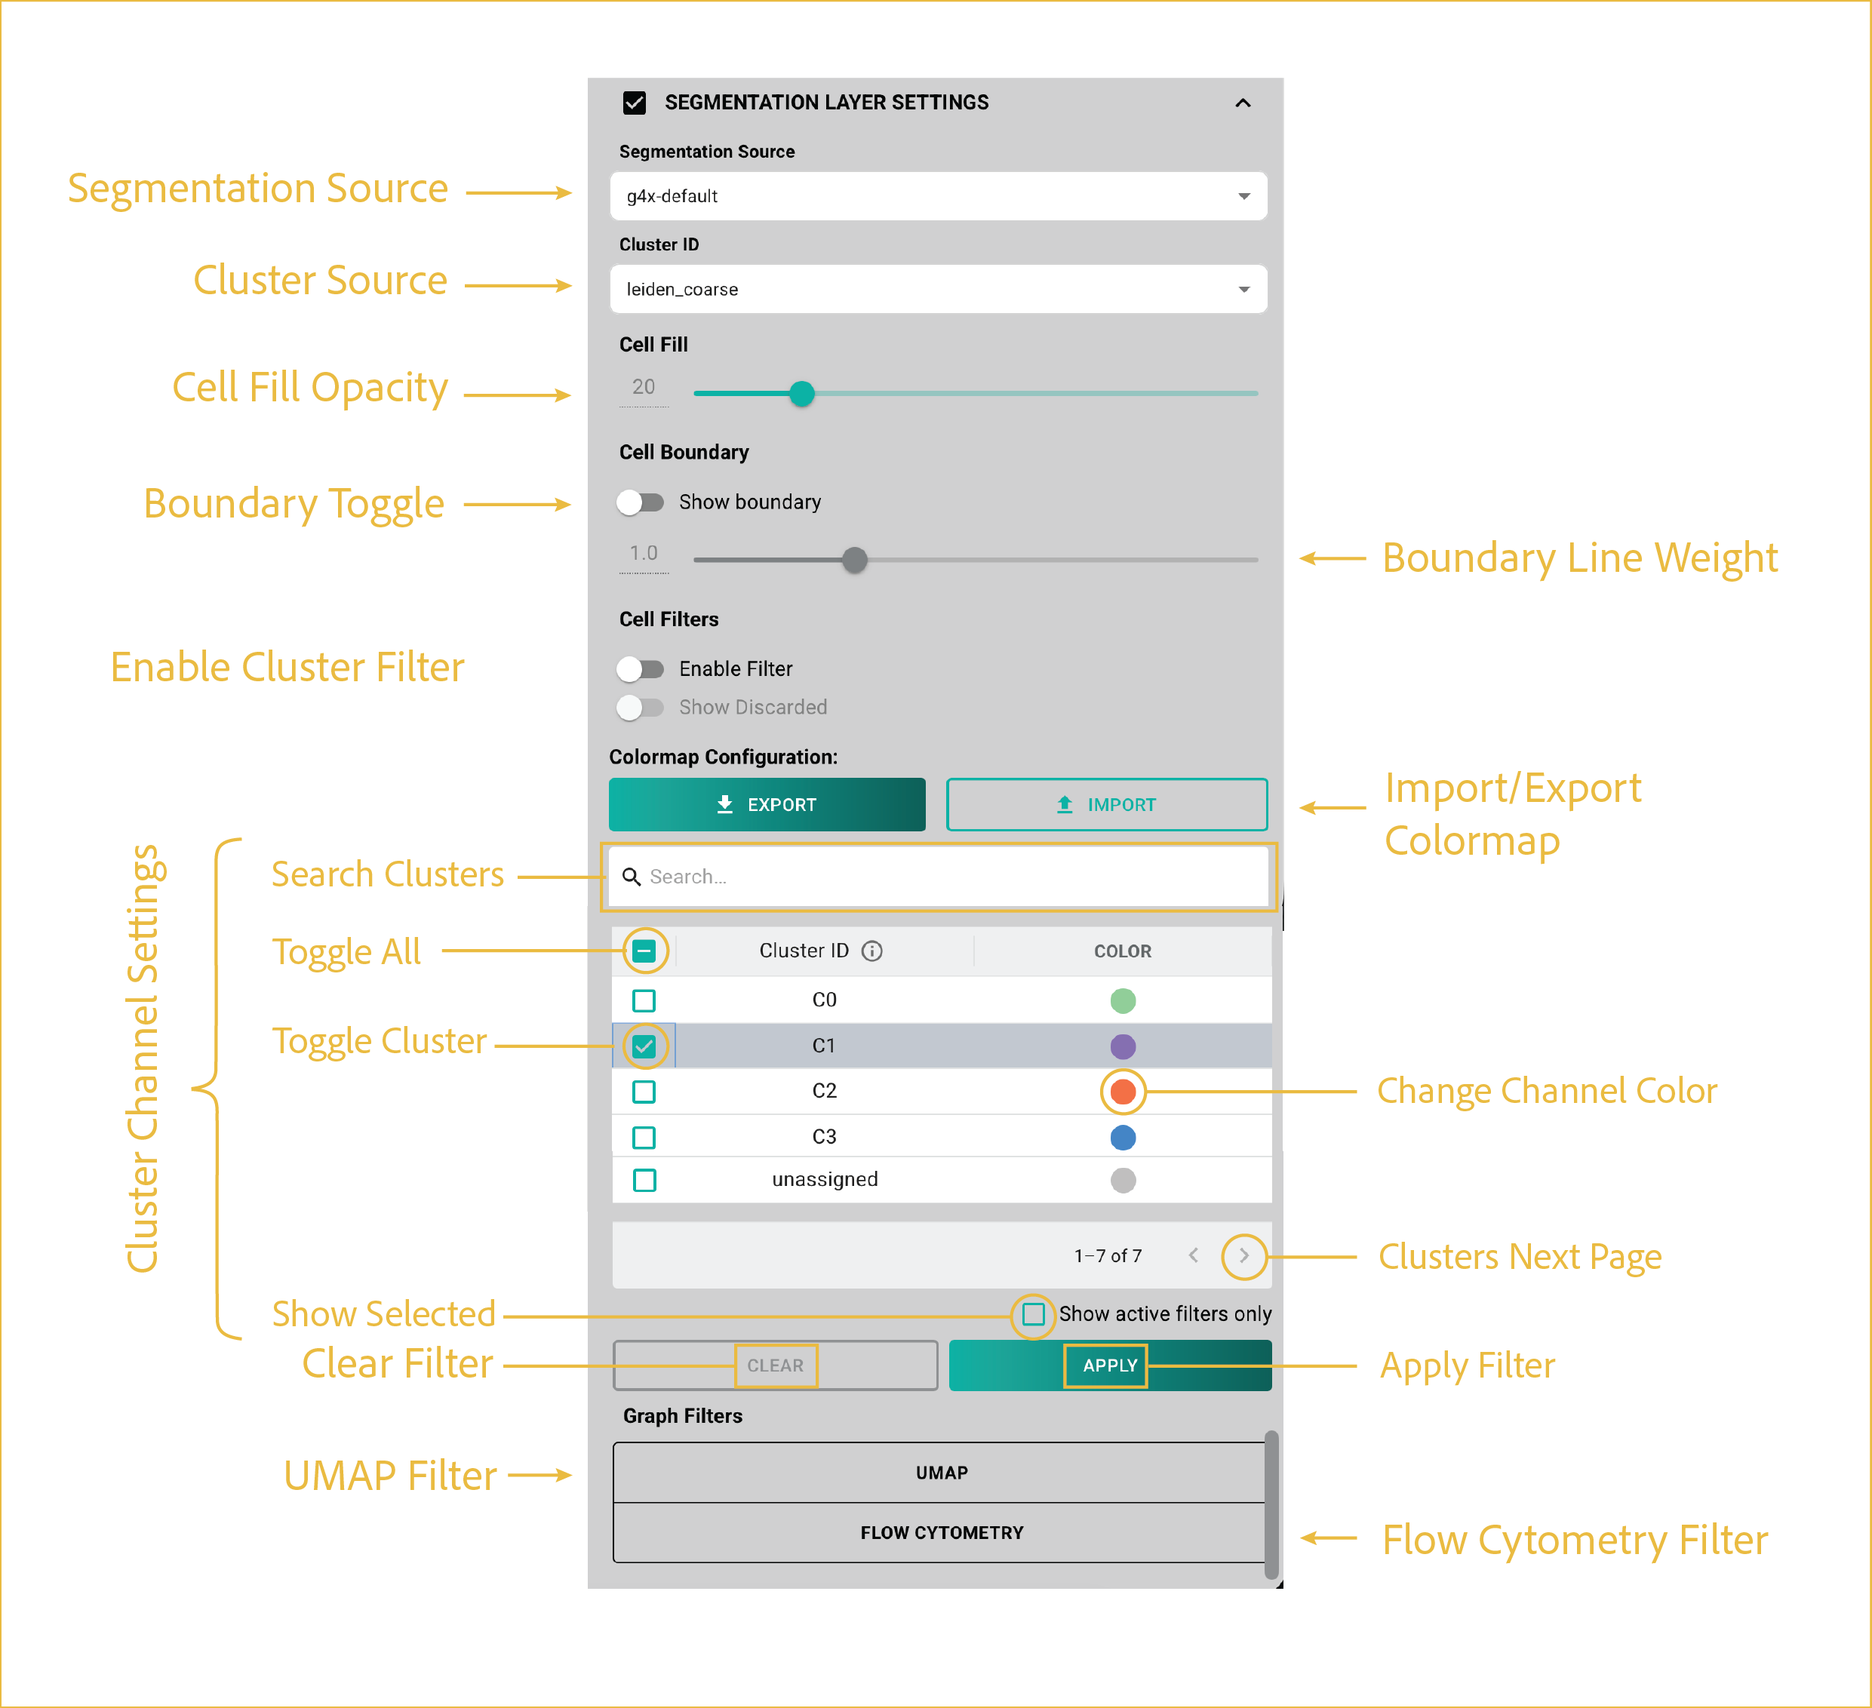
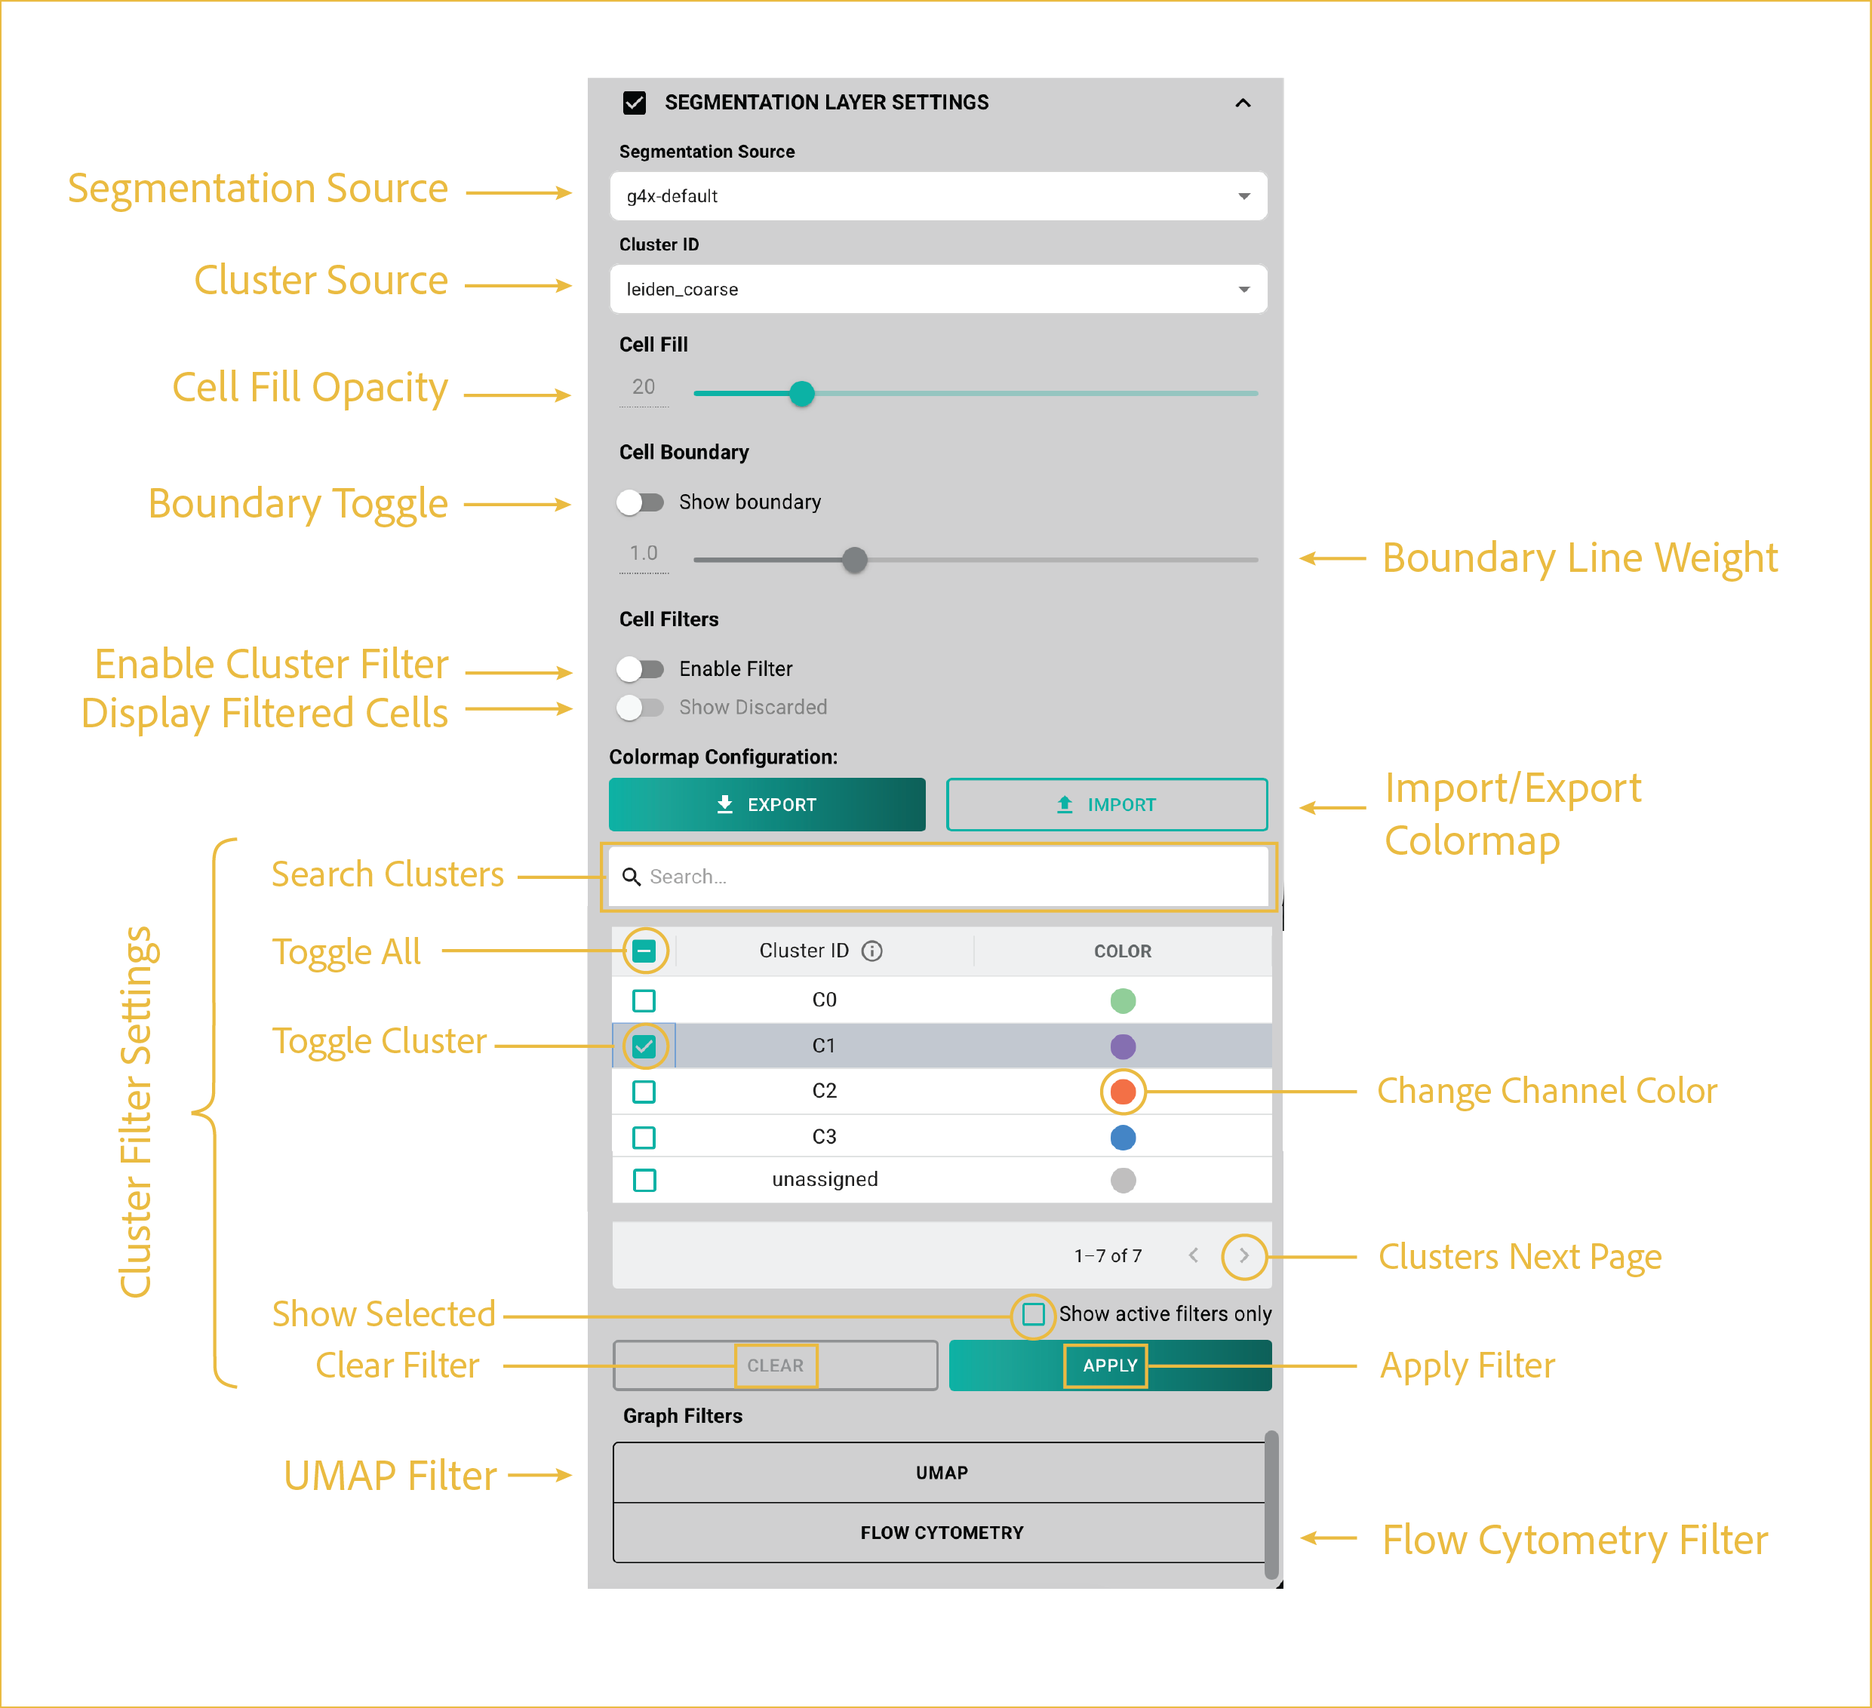
Made segmentation and tx page wording consistent.

diff --git a/docs/usage/segmentation.md b/docs/usage/segmentation.md
@@ -14,50 +14,61 @@ This section describes the controls available for visualizing and filtering cell
 
 ## features
 
-- <b><u>Cell Fill Toggle/Opacity:</u></b>
+- <b><u>Segmentation Source:</u></b>
 
-      Controls the display of cell segmentation fills.
+      This drop down menu will allow you to select which segmentation you wish to display the data for on the viewer. Currently, we provide only our nuclear expansion segmentation by default, but by using the [g4x-helpers](https://docs.singulargenomics.com/G4X-helpers/) toolkit, you can apply a new segmentation to the data that will appear in this drop down.
 
-      - **Cell Fill Toggle:** Enables or disables filled segmentation masks. When disabled, only cell outlines are displayed.
-      - **Opacity Slider:** Adjusts the transparency of cell fills when enabled. A value of **0** is fully transparent, while **100** is fully opaque.
+- <b><u>Cluster Source:</u></b>
 
-- <b><u>Segmentation Filter Toggles:</u></b>
+      This drop down menu will allow you to select which clustering annotation you wish to display the data for on the viewer. Currently, we provide only our base leiden clustering by default, but by using the [g4x-helpers](https://docs.singulargenomics.com/G4X-helpers/) toolkit, you can upload a new cluster annotation layer to the data that will appear in this drop down.
 
-      Enable or disable cell-level filtering within the viewer.
+- <b><u>Cell Fill Opacity:</u></b>
 
-      Supported filters include:
+      Adjusts the transparency of cell fills when enabled. A value of **0** is fully transparent, while **100** is fully opaque.
 
-      - Cluster ID filtering
-      - UMAP filtering
-      - Flow cytometry filtering
+- <b><u>Cell Boundary Toggle:</u></b>
 
-      When any filter is active, the **Show Discarded** option becomes available. This displays filtered cells as white segmentation masks, allowing you to visualize cells that have been excluded by the current filter selection.
+      Toggles the display of cell boundaries (displayed as fully opaque lines) on the image. This toggle will trigger a warning that for larger data sets, this function can cause a crash due to being resource intensive.
 
-- <b><u>Import/Export Segmentation Settings:</u></b>
+- <b><u>Boundary Line Weight:</u></b>
+
+      Toggles the display of cell boundaries (displayed as fully opaque lines) on the image. This toggle will trigger a warning that for larger data sets, this function can cause a crash due to being resource intensive.
+
+- <b><u>Enable Cluster Filter:</u></b>
+
+      Toggles the on and off the filter specified in the **Cluster Filter Settings** section.
+
+- <b><u>Display Filtered Cells:</u></b>
+
+      Toggles the on and off display of the cells that were specified by the various filters listed below. Filtered cells display as gray polygons in the cell mask layer. The **Display Filtered Cells** option is only interactable when a filter is actively applied to the image.
+
+- <b><u>Import/Export Colormap:</u></b>
 
       Import or export segmentation visualization settings and colormap configurations.
 
       - **Import:** Click the button and select a previously saved JSON configuration file.
       - **Export:** Configure the segmentation settings as desired, then click **Export** and choose a save location and filename.
 
-- <b><u>Segmentation Filter Controls:</u></b>
+- <b><u>Cluster Filter Settings:</u></b>
 
-      Filter cells by cluster assignment using either the searchable list or the complete cluster list.
+      These features are all used to specify a specific filter state for cell mask overlays. They rely on the the clustering information as well as expression of protein or RNA species of interest. Clusters labeled **-1** were not assigned to a cluster, typically due to filtering or quality-control processes in our on-board analysis.
 
-      - Use the search bar to quickly locate specific clusters.
-      - Clusters labeled **-1** were not assigned to a cluster, typically due to filtering or quality-control processes.
-      - Select or deselect clusters using the checkbox next to each cluster ID.
-      - Click **APPLY** or enable the filter toggle to display only the selected clusters.
-      - Click **CLEAR** to remove all cluster selections and reset the filter.
-      - Enable **Show Active Filters Only** to display only the selected clusters while hiding all others.
+      - **Search Clusters:** This search bar can be used to look through the clusters, based on the input cluster names. Manually updating cluster names will allow naming using cell types, etc.
+      - **Toggle All:** Toggles selection of all clusters on/off.
+      - **Toggle Cluster:** Toggles selection for a single cluster.
+      - **Show Selected:** Hide all non-selected clusters.
+      - **Change Channel Color:** Change the color selection for a given cluster.
+      - **Clusters Change Page:** If there are too many clusters to display at once, this will change the page displayed.
+      - **Apply Filter:** Applies the current filter to the displayed image.
+      - **Clear Filter:** Clears the current filter from the displayed image.
 
-- <b><u>Open UMAP Filter Panel:</u></b>
+- <b><u>UMAP Filter:</u></b>
 
       Opens the UMAP filtering interface, allowing you to select cell populations based on their position within the UMAP embedding.
 
       See [UMAP filter](umap.md) for additional details.
 
-- <b><u>Open Flow Cytometry Filter Panel:</u></b>
+- <b><u>Flow Cytometry Filter:</u></b>
 
       Opens the flow cytometry filtering interface, allowing you to select cell populations based on protein expression distributions.
 

diff --git a/docs/usage/transcript.md b/docs/usage/transcript.md
@@ -12,56 +12,47 @@ This section describes the controls available for visualizing and filtering tran
 
 ## features
 
-- <b><u>Transcript Sub-sampling Controls:</u></b>
+- <b><u>Subsampling Toggle:</u></b>
 
-      Most G4X datasets contain more than one million transcripts. Transcript sub-sampling reduces rendering load and helps maintain viewer responsiveness on standard desktop computers.
+      Most G4X datasets contain more than 100 million transcripts. Transcript sub-sampling reduces rendering load and helps maintain viewer responsiveness on standard desktop computers. By default, the G4X Viewer automatically adjusts transcript density as you zoom and pan throughout the image for responsive exploration of your data. This toggle allows your to enable manual adjustment of the displayed transcript percentage.
 
-      By default, the G4X Viewer automatically adjusts transcript density as you zoom and pan throughout the image.
-
-      Two controls are available for manual management of transcript rendering:
-
-      - **Manual Sub-sampling Toggle:** Enables manual control of transcript display density instead of automatic dynamic sub-sampling.
-      - **Display Percentage Slider:** Adjusts the percentage of displayed transcripts from **0.16%** to **100%**.
-
-      When manual control is enabled, a warning is displayed indicating that rendering large numbers of transcripts may cause browser instability or crashes.
+- <b><u>% Transcripts Displayed:</u></b>
+      
+      Adjusts the percentage of displayed transcripts from **0.16%** to **100%**. When manual control is enabled, a warning is displayed indicating that rendering large numbers of transcripts may cause browser instability or crashes.
 
       We recommend keeping the display percentage below **20%** unless transcript display has already been restricted to a subset of transcript species.
 
-- <b><u>Edit Point Size:</u></b>
+- <b><u>Tx Spot Size:</u></b>
 
-      Adjusts the size of transcript markers displayed in the viewer.
+      Adjusts the size of transcript markers displayed in the viewer. Point size can be modified by entering a value directly into the text field or by using the slider control. Changes are applied to all displayed transcripts.
 
-      Point size can be modified by entering a value directly into the text field or by using the slider control. Changes are applied to all displayed transcripts.
+- <b><u>Enable Tx Filter:</u></b>
 
-- <b><u>Transcript Filter Toggles:</u></b>
+      Toggles the on and off the filter specified in the **Transcript Filter Settings** section.
 
-      Controls whether transcript filtering is applied within the viewer.
+- <b><u>Display Filtered Tx:</u></b>
 
-      - **Enable Filters:** Enables or disables the transcript filters configured in the Transcript Filter Controls section.
-      - **Show Discarded:** Displays filtered transcripts as white markers, allowing you to visualize transcripts that have been excluded by the current filter settings.
+      Toggles the on and off display of the transcript species that were specified by the various filters listed below. Filtered transcripts display as gray polygons in the cell mask layer. The **Display Filtered Tx** option is only interactable when a filter is actively applied to the image.
 
-- <b><u>Import/Export Transcript Settings:</u></b>
+- <b><u>Import/Export Colormap:</u></b>
 
-      Import or export transcript visualization and filtering settings.
-
-      Exported settings include:
-
-      - Transcript color mappings
-      - Selected transcript species
-      - Filter configurations
+      Import or export segmentation visualization settings and colormap configurations.
 
       - **Import:** Click the button and select a previously saved JSON configuration file.
-      - **Export:** Configure transcript settings as desired, then click **Export** and choose a save location and filename.
+      - **Export:** Configure the segmentation settings as desired, then click **Export** and choose a save location and filename.
 
-- <b><u>Transcript Filter Controls:</u></b>
+- <b><u>Transcript Filter Settings:</u></b>
 
-      Filter transcripts by gene or transcript species using either the searchable list or the alphabetized transcript list.
+      These features are all used to specify a specific filter state for transcript overlays. All transcripts are displayed regardless of whether or not they are assigned to a cell.
 
-      - Use the search bar to quickly locate specific genes.
-      - Select or deselect transcript species using the checkbox next to each entry.
-      - Click **APPLY** or enable the filter toggle to display only the selected transcript species.
-      - Click **CLEAR** to remove all transcript selections and reset the filter.
-      - Enable **Show Active Filters Only** to display only selected transcript species while hiding all others.
+      - **Search Genes:** This search bar can be used to look through the gene species identified in your data.
+      - **Toggle All:** Toggles selection of all genes on/off.
+      - **Toggle Gene:** Toggles selection for a single gene.
+      - **Change Gene Color:** Change the color selection for a given gene.
+      - **Show Selected:** Hide all non-selected clusters.
+      - **Clusters Change Page:** If there are too many clusters to display at once, this will change the page displayed.
+      - **Apply Filter:** Applies the current filter to the displayed image.
+      - **Clear Filter:** Clears the current filter from the displayed image.
 
 <br>
 

diff --git a/docs/usage/umap.md b/docs/usage/umap.md
@@ -16,36 +16,41 @@ The UMAP filter is displayed as a resizable pop-up window with its own set of in
 
 ## features
 
-- <b><u>Plotting Controls:</u></b>
+- <b><u>Subsampling Factor:</u></b>
 
-      These controls determine how the UMAP embedding is displayed within the pop-up window.
+      Reduces the number of displayed points by the specified scale factor. Valid values range from **2** to **20**, with a default value of **2**.
 
-      - **Point Size:** Manually adjust the size of displayed points by entering a floating-point value between **1** and **10**.
-      - **Subsampling:** Reduces the number of displayed points by the specified scale factor. Valid values range from **2** to **20**, with a default value of **2**.
+- <b><u>Point Size:</u></b> 
+
+      Manually adjust the size of displayed points by entering a floating-point value between **1** and **10**.
 
 - <b><u>Plot Interactions:</u></b>
 
-      This menu provides a variety of standard Plotly interactions, including:
+      This menu provides a variety of standard Plotly interactions. For filtering, the most important tool is **Box Select**, highlighted in the reference image. This tool is used to select a subpopulation of cells for downstream filtering. All interactions are detailed below:
 
-      - Downloading the plot
-      - Zooming in and out
-      - Zooming to a selected area
-      - Panning across the plot
-      - Selecting a region of interest (ROI)
-      - Resetting the plot axes
+      - **Screenshot:** Takes a screenshot of the displayed plot area (without the tools and other UI elements displayed).
+      - **Zoom Mode:** Allow dynamic scrolling in and out to change plot zoom level.
+      - **Pan View:** Changes the mode to allow panning around the image with your cursor.
+      - **Box Select:** Used to select cells to filter for segmentation display
+      - **Zoom In:** Zooms in at set intervals.
+      - **Zoom Out:** Zooms out at set intervals.
+      - **Autoscale Axes:** Autoscales axes to display all dots in the viewing area.
+      - **Reset View:** Return to default view for the plot.
 
-      For filtering, the most important tool is **Box Select**, highlighted in the reference image. This tool is used to select a subpopulation of cells.
+- <b><u>Toggle/Isolate Clusters:</u></b>
 
-      To make selections more precise, you can also interact with the plot legend:
+      When using the **Box Select** tool to filter cells, there are a few iteractions with the legend that may help you:
 
       - **Single-click** a cluster to hide or show it.
       - **Double-click** a cluster to display only that cluster while hiding all others.
 
-- <b><u>Select ROI:</u></b>
+- <b><u>Selected Box:</u></b>
 
-      After selecting the **Box Select** tool, navigate to the desired area of the plot and draw a box around the cells you would like to filter.
+      After selecting the **Box Select** tool, you can then use your cursor the left click and drag to create a box around the cells you wish to filter for. This display shows an example of a box you may choose to select on this UMAP embedding.
 
-      The selection box remains visible until a new selection is made or the filter is cleared. The X- and Y-axis boundaries of the selected region are displayed at the bottom of the plot.
+- <b><u>Box Coordinates:</u></b>
+
+      This series of numbers describe the X and Y ranges of the box that you are applying the filter to. You can manually update these values if you desire.
 
 - <b><u>Apply/Clear Filter:</u></b>
 

diff --git a/docs/usage/flow_cytometry.md b/docs/usage/flow_cytometry.md
@@ -46,7 +46,7 @@ This section describes how to use the flow cytometry filtering tool to select an
 
 - <b><u>Selected Box:</u></b>
 
-      When **Box Select** tool is clicked, you can then use your cursor the left click and drag to create a box around the cells you wish to filter for. This display shows an example of a box you may choose to select on this UMAP embedding.
+      After selecting the **Box Select** tool, you can then use your cursor the left click and drag to create a box around the cells you wish to filter for. This display shows an example of a box you may choose to select on this flow cytometry display.
 
 - <b><u>Box Coordinates:</u></b>
 
